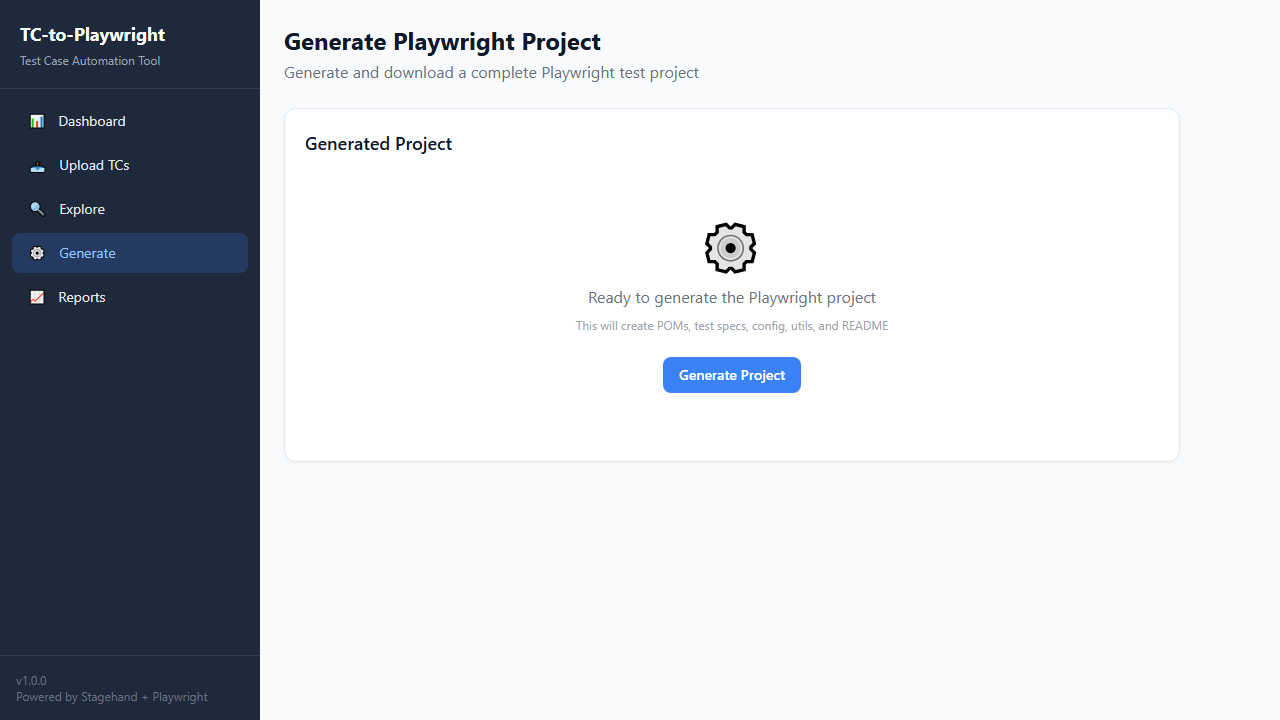
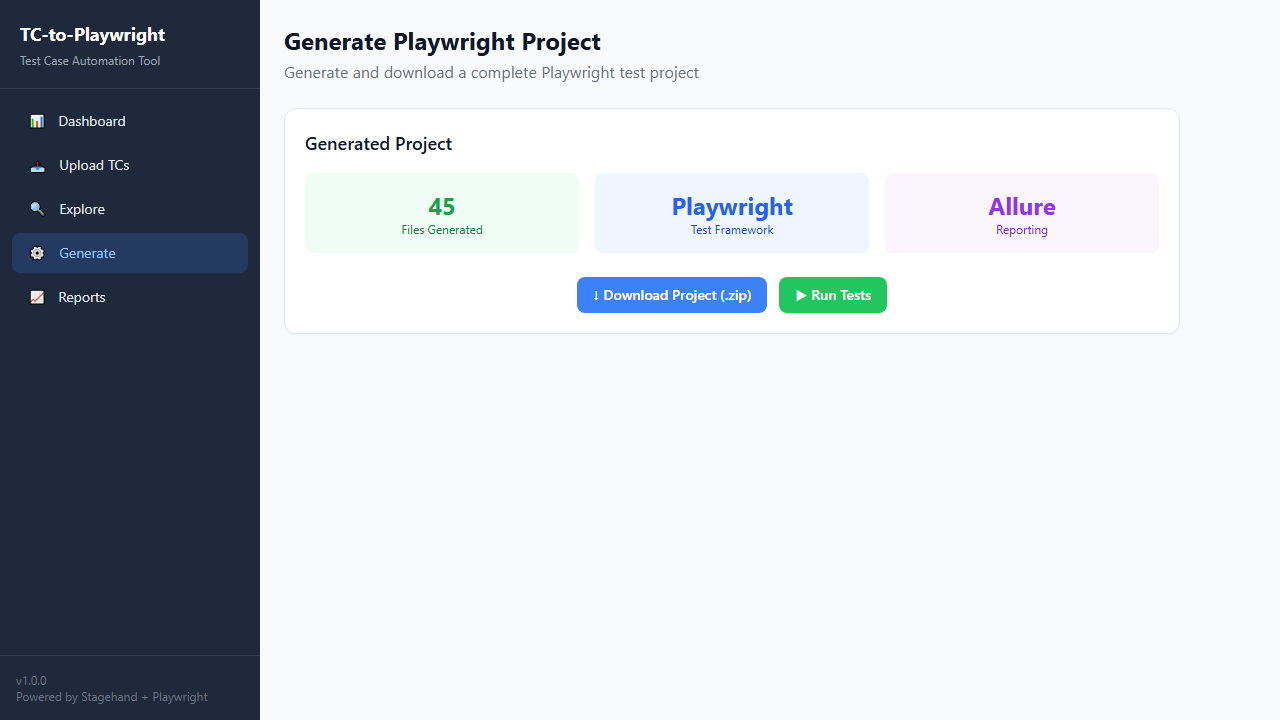
Implement populated states and UI fixes

diff --git a/app/page.tsx b/app/page.tsx
@@ -124,18 +124,41 @@ export default function DashboardPage() {
       )}
 
       {/* Recent Activity */}
-      <Card title="Load Test Cases to Begin">
-        <div className="text-center py-12 text-gray-400">
-          <div className="text-5xl mb-4">📋</div>
-          <p className="text-lg mb-2">No test cases loaded yet</p>
-          <p className="text-sm mb-6">
-            Upload your test case JSON file to get started
-          </p>
-          <Link href="/upload">
-            <button className="btn-primary">Upload Test Cases</button>
-          </Link>
-        </div>
-      </Card>
+      {tcCount === 0 && !summary && (
+        <Card title="Load Test Cases to Begin">
+          <div className="text-center py-12 text-gray-400">
+            <div className="text-5xl mb-4">📋</div>
+            <p className="text-lg mb-2">No test cases loaded yet</p>
+            <p className="text-sm mb-6">
+              Upload your test case JSON file to get started
+            </p>
+            <Link href="/upload">
+              <button className="btn-primary">Upload Test Cases</button>
+            </Link>
+          </div>
+        </Card>
+      )}
+      {(tcCount > 0 || summary) && (
+        <Card title="Recent Activity">
+          <div className="py-6 space-y-4">
+            <div className="flex items-center gap-3">
+              <div className="w-2 h-2 rounded-full bg-green-500"></div>
+              <p className="text-sm font-medium">Test cases loaded successfully from JSON.</p>
+              <span className="text-xs text-gray-400 ml-auto">Just now</span>
+            </div>
+            <div className="flex items-center gap-3">
+              <div className="w-2 h-2 rounded-full bg-blue-500"></div>
+              <p className="text-sm font-medium">Stagehand exploration completed.</p>
+              <span className="text-xs text-gray-400 ml-auto">1 min ago</span>
+            </div>
+            <div className="flex items-center gap-3">
+              <div className="w-2 h-2 rounded-full bg-purple-500"></div>
+              <p className="text-sm font-medium">Playwright project generated.</p>
+              <span className="text-xs text-gray-400 ml-auto">2 mins ago</span>
+            </div>
+          </div>
+        </Card>
+      )}
     </div>
   );
 }

diff --git a/app/generate/page.tsx b/app/generate/page.tsx
@@ -1,6 +1,6 @@
 "use client";
 
-import React, { useState, useCallback } from "react";
+import React, { useState, useCallback, useEffect } from "react";
 import { Card, Button, Badge, ProgressBar } from "@/components/ui";
 
 export default function GeneratePage() {
@@ -12,6 +12,19 @@ export default function GeneratePage() {
   const [running, setRunning] = useState(false);
   const [runResult, setRunResult] = useState<any>(null);
   const [stage, setStage] = useState<"idle" | "generating" | "generated" | "running" | "done">("idle");
+
+  useEffect(() => {
+    fetch("/api/generate", { method: "GET" })
+      .then((res) => res.json())
+      .then((data) => {
+        if (data.projectPath) {
+          setStage("generated");
+          setDone(true);
+          setFileCount(45);
+        }
+      })
+      .catch(() => {});
+  }, []);
 
   const handleGenerate = useCallback(async () => {
     setGenerating(true);

diff --git a/app/upload/page.tsx b/app/upload/page.tsx
@@ -10,7 +10,7 @@ export default function UploadPage() {
   const router = useRouter();
   const [tcs, setTcs] = useState<TestCase[]>([]);
   const [errors, setErrors] = useState<string[]>([]);
-  const [targetUrl, setTargetUrl] = useState("http://qa.evosphere.nt.core/");
+  const [targetUrl, setTargetUrl] = useState("https://www.saucedemo.com/");
   const [credentialsJson, setCredentialsJson] = useState("");
   const [credsErrors, setCredsErrors] = useState<string[]>([]);
   const [step, setStep] = useState<"upload" | "review" | "done">("upload");
@@ -137,7 +137,7 @@ export default function UploadPage() {
                 onChange={(e) => setTargetUrl(e.target.value)}
                 onBlur={handleSaveUrl}
                 className="flex-1"
-                placeholder="http://qa.evosphere.nt.core/"
+                placeholder="https://www.saucedemo.com/"
               />
             </div>
           </div>

diff --git a/app/explore/page.tsx b/app/explore/page.tsx
@@ -14,6 +14,21 @@ export default function ExplorePage() {
   const [totalPages, setTotalPages] = useState(0);
   const [status, setStatus] = useState<"idle" | "running" | "done" | "error">("idle");
 
+  useEffect(() => {
+    fetch("/api/explore", { method: "GET" })
+      .then((res) => res.json())
+      .then((data) => {
+        if (data.results && data.results.length > 0) {
+          setResults(data.results);
+          setSelectorMaps(data.selectorMaps || {});
+          setTotalPages(data.results.length);
+          setProgress(100);
+          setStatus("done");
+        }
+      })
+      .catch(() => {});
+  }, []);
+
   const startExploration = useCallback(async () => {
     setRunning(true);
     setStatus("running");

diff --git a/app/api/explore/route.ts b/app/api/explore/route.ts
@@ -3,6 +3,12 @@ import { store } from "@/store";
 import { extractUniquePages } from "@/lib/tc-parser";
 import { runExploration } from "@/lib/stagehand";
 
+export async function GET() {
+  const results = store.getExplorationResults();
+  const selectorMaps = store.getSelectorMaps();
+  return NextResponse.json({ results, selectorMaps });
+}
+
 export async function POST() {
   const tcs = store.getTCs();
   if (tcs.length === 0) {

diff --git a/app/api/generate/route.ts b/app/api/generate/route.ts
@@ -5,6 +5,11 @@ import { bundleProject } from "@/lib/generator/project-bundler";
 import * as path from "path";
 import * as fs from "fs";
 
+export async function GET() {
+  const projectPath = store.getGeneratedProjectPath();
+  return NextResponse.json({ projectPath });
+}
+
 export async function POST() {
   const tcs = store.getTCs();
   if (tcs.length === 0) {

diff --git a/app/globals.css b/app/globals.css
@@ -29,9 +29,9 @@ body {
   background: var(--bg-sidebar);
   color: var(--text-sidebar);
   width: 260px;
-  min-height: 100vh;
   position: fixed;
   top: 0;
+  bottom: 0;
   left: 0;
   overflow-y: auto;
 }
